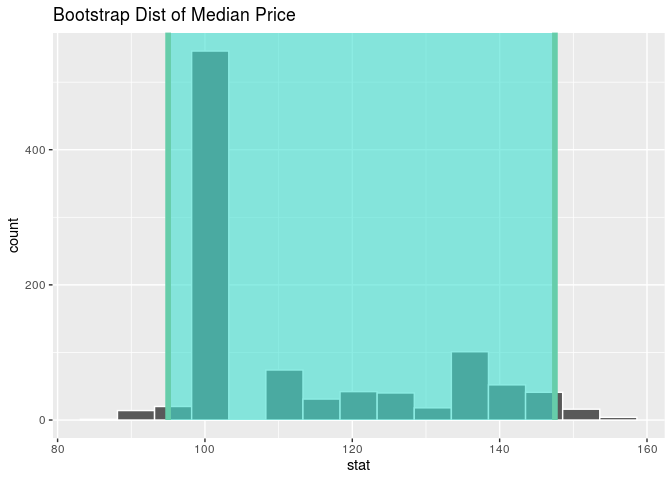
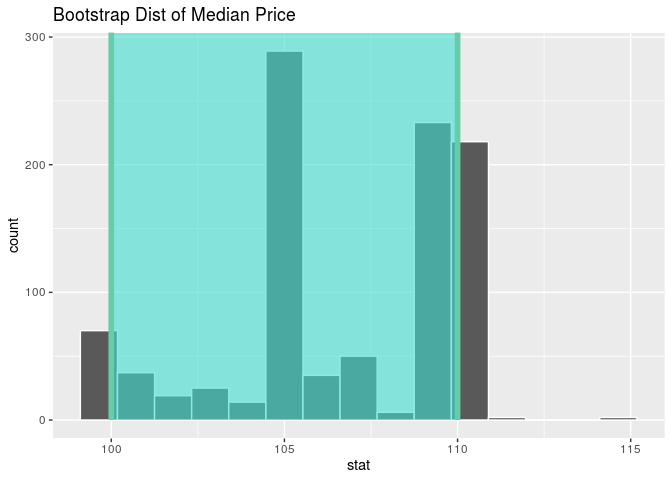
edits

diff --git a/data-analysis/data-analysis.md b/data-analysis/data-analysis.md
@@ -39,7 +39,7 @@ Creating the sample that we will perform the following analysis on:
 
 ``` r
 set.seed(111519)
-abnb_sample <- sample_n(abnb, 50)
+abnb_sample <- sample_n(abnb, 4000)
 ```
 
 Constructing a bootstrap distribution for the median price of Airbnbs in
@@ -63,10 +63,10 @@ Airbnbs in NYC:
     ## # A tibble: 1 x 2
     ##   `2.5%` `97.5%`
     ##    <dbl>   <dbl>
-    ## 1     95    148.
+    ## 1    100     110
 
 We are 95% confident that the population median price per night of
-Airbnbs in NYC is between $97.50 and $147.51.
+Airbnbs in NYC is between $100.00 and $110.00.
 
 Creating a visualizaing of the bootstrap distribution for median price:
 
@@ -106,38 +106,38 @@ lm_price_borough %>%
 
 | term                              |  estimate |
 | :-------------------------------- | --------: |
-| (Intercept)                       |   180.333 |
-| neighbourhood\_groupBrooklyn      |  \-63.000 |
-| neighbourhood\_groupStaten Island |  \-80.333 |
-| neighbourhood\_groupQueens        |  \-71.667 |
-| neighbourhood\_groupBronx         | \-125.333 |
+| (Intercept)                       |   206.848 |
+| neighbourhood\_groupBrooklyn      |  \-85.106 |
+| neighbourhood\_groupStaten Island | \-117.674 |
+| neighbourhood\_groupQueens        | \-110.432 |
+| neighbourhood\_groupBronx         | \-126.213 |
 
 The linear model is:
 
-`price-hat = 180.333 -63.000*(neighbourhood_groupBrooklyn)
--80.333*(neighbourhood_groupStaten Island)
--71.667*(neighbourhood_groupQueens) -125.333(neighbourhood_groupBronx)`
+`price-hat = 206.848 -85.106*(neighbourhood_groupBrooklyn)
+-117.674*(neighbourhood_groupStaten Island)
+-110.432*(neighbourhood_groupQueens) -126.213(neighbourhood_groupBronx)`
 
 Intepreting the intercept:
 
 Given that the Airbnb is in Manhattan the expected price, on average, is
-$180.33. In this case, the intercept does have a meaningful
-interpretation because an Airbnb could be $180.33 per night.
+$206.85. In this case, the intercept does have a meaningful
+interpretation because an Airbnb could be $206.85 per night.
 
 Interpreting the slopes using lm\_price\_borough linear model:
 
 For an Airbnb in Brooklyn, the average price is expected, on average, to
-be $63.00 less than an Airbnb in Manhattan, holding all else constant.
+be $85.11 less than an Airbnb in Manhattan, holding all else constant.
 
 For an Airbnb in Staten Island, the average price is expected, on
-average, to be $80.33 less than an Airbnb in Manhattan, holding all else
-constant.
+average, to be $117.67 less than an Airbnb in Manhattan, holding all
+else constant.
 
 For an Airbnb in Queens, the average price is expected, on average, to
-be $71.66 less than an Airbnb in Manhattan, holding all else constant.
+be $110.43 less than an Airbnb in Manhattan, holding all else constant.
 
 For an Airbnb in Bronx, the average price is expected, on average, to be
-$125.33 less than an Airbnb in Manhattan, holding all else constant.
+$126.21 less than an Airbnb in Manhattan, holding all else constant.
 
 ### Part C
 
@@ -161,12 +161,12 @@ abnb_sample_filtered %>%
     ## # A tibble: 2 x 2
     ##   neighbourhood_group med_price
     ##   <fct>                   <dbl>
-    ## 1 Manhattan               148  
-    ## 2 Brooklyn                 92.5
+    ## 1 Manhattan                 150
+    ## 2 Brooklyn                   90
 
-The observed median prices for Manhattan and Brooklyn are $148.00 and
-$92.50, respectively. Therefore, the observed difference in median
-prices is $55.50.
+The observed median prices for Manhattan and Brooklyn are $150.00 and
+$90.00, respectively. Therefore, the observed difference in median
+prices is $60.
 
 Null Hypothesis: There is no difference in median price between
 Manhattan and Brooklyn Airbnb per night.
@@ -188,39 +188,34 @@ Visualizing the null distribution.
 ``` r
 visualize(null_dist_man_brook_med_price) + 
   labs(title = "Null Dist of Difference in Median Price between Manhattan and Brooklyn") +
-  shade_p_value(obs_stat = 55.5, direction = "two_sided")
+  shade_p_value(obs_stat = 60, direction = "two_sided")
 ```
 
     ## Warning: F usually corresponds to right-tailed tests. Proceed with caution.
 
 ![](data-analysis_files/figure-gfm/null_dist_diff_median_vis-1.png)<!-- -->
 
-Findng the
-p-value.
+Findng the p-value.
 
 ``` r
-get_p_value(null_dist_man_brook_med_price, 55.5, direction = "two_sided")
+get_p_value(null_dist_man_brook_med_price, 60, direction = "two_sided")
 ```
 
     ## # A tibble: 1 x 1
     ##   p_value
     ##     <dbl>
-    ## 1   0.116
+    ## 1       0
 
-The p-value is 0.116 which is greater than the significance value of
-0.05. Therefore, we fail to reject the null hypothesis in favor of the
-alternative hypothesis. The data does not provide convincing evidence of
-a difference in median price of Airbnbs for listings in Manhattan and
-Brooklyn.
+The p-value is 0 which is less than the significance value of 0.05.
+Therefore, we reject the null hypothesis that there is no difference in
+median price between Manhattan and Brooklyn Airbnb per night. We can
+conclude that the data does provide convincing evidence of a difference
+in median price of Airbnbs for listings in Manhattan and Brooklyn.
 
 ### Part D
 
 ``` r
-abnb_sample_plot <- sample_n(abnb, 5000)
-```
-
-``` r
-abnb_sample_plot <- abnb_sample_plot %>%
+abnb_sample <- abnb_sample %>%
    mutate(price_median = median(price), 
           price_case = case_when(
       price >= price_median ~ "Median or Above",
@@ -229,7 +224,7 @@ abnb_sample_plot <- abnb_sample_plot %>%
 ```
 
 ``` r
-abnb_sample_plot %>%
+abnb_sample %>%
   ggplot(mapping = aes (x = longitude, y = latitude, color = price_case)) +
   geom_jitter(alpha = 0.5) +
   labs(title = "Prices at Latitude and Longitude Coordinates", x = "Longitude", y = "Latitude", color = "Price Case")
@@ -238,7 +233,7 @@ abnb_sample_plot %>%
 ![](data-analysis_files/figure-gfm/price-at-location-1.png)<!-- -->
 
 ``` r
-abnb_sample_plot %>%
+abnb_sample %>%
   count(neighbourhood_group, price_case) %>%
   group_by(neighbourhood_group) %>%
   mutate(rel_freq = n/sum(n)) %>%
@@ -248,12 +243,12 @@ abnb_sample_plot %>%
     ## # A tibble: 5 x 4
     ## # Groups:   neighbourhood_group [5]
     ##   neighbourhood_group price_case          n rel_freq
-    ##   <chr>               <chr>           <int>    <dbl>
-    ## 1 Bronx               Median or Above    15    0.158
-    ## 2 Brooklyn            Median or Above   825    0.404
-    ## 3 Manhattan           Median or Above  1504    0.671
-    ## 4 Queens              Median or Above   149    0.255
-    ## 5 Staten Island       Median or Above    15    0.395
+    ##   <fct>               <chr>           <int>    <dbl>
+    ## 1 Manhattan           Median or Above  1184    0.688
+    ## 2 Brooklyn            Median or Above   680    0.404
+    ## 3 Staten Island       Median or Above     5    0.217
+    ## 4 Queens              Median or Above   119    0.245
+    ## 5 Bronx               Median or Above    13    0.153
 
 WANT TO SAY WHETHER PRICE IS DEPENDEDNT ON LOCATION OF BOROUGH\!
 
@@ -269,18 +264,18 @@ abnb_sample %>%
 
     ## # A tibble: 10 x 3
     ## # Groups:   neighbourhood [10]
-    ##    neighbourhood    neighbourhood_group med_price
-    ##    <chr>            <fct>                   <dbl>
-    ##  1 Theater District Manhattan                239 
-    ##  2 Hell's Kitchen   Manhattan                225 
-    ##  3 East Harlem      Manhattan                218.
-    ##  4 Jackson Heights  Queens                   200 
-    ##  5 Greenpoint       Brooklyn                 199 
-    ##  6 Williamsburg     Brooklyn                 199 
-    ##  7 Ditmars Steinway Queens                   190 
-    ##  8 Midtown          Manhattan                181 
-    ##  9 Chelsea          Manhattan                180 
-    ## 10 Elmhurst         Queens                   179
+    ##    neighbourhood     neighbourhood_group med_price
+    ##    <chr>             <fct>                   <dbl>
+    ##  1 Eastchester       Bronx                    475 
+    ##  2 Far Rockaway      Queens                   450 
+    ##  3 Tribeca           Manhattan                450 
+    ##  4 Vinegar Hill      Brooklyn                 354.
+    ##  5 NoHo              Manhattan                325 
+    ##  6 Castleton Corners Staten Island            299 
+    ##  7 Rockaway Beach    Queens                   297 
+    ##  8 DUMBO             Brooklyn                 250 
+    ##  9 Highbridge        Bronx                    240 
+    ## 10 Great Kills       Staten Island            235
 
 ### Part II
 
@@ -358,28 +353,28 @@ lm_avail_room_type %>%
 
 | term                   | estimate |
 | :--------------------- | -------: |
-| (Intercept)            |  121.067 |
-| room\_typePrivate room | \-38.678 |
-| room\_typeShared room  |   25.433 |
+| (Intercept)            |  115.774 |
+| room\_typePrivate room |  \-3.443 |
+| room\_typeShared room  |   74.912 |
 
 The linear model is:
 
-`price-hat = 121.067 -38.678*(room_typePrivateroom)
-+25.433*(room_typeShared room)`
+`price-hat = 115.774 -3.443*(room_typePrivateroom)
++74.912*(room_typeShared room)`
 
 Intepreting the intercept:
 
 Given that the Airbnb has the roomtype of entire house/apt the expected
-availability, on average, is 121 days out of the year. In this case, the
-intercept does have a meaningful interpretation because an Airbnb could
-be available for 121 days out of 365 per year.
+availability, on average, is 115.8 days out of the year. In this case,
+the intercept does have a meaningful interpretation because an Airbnb
+could be available for 121 days out of 365 per year.
 
 Interpreting the slopes using lm\_avail\_room\_type linear model:
 
 For an Airbnb with roomtype of private room, the average availability is
-expected, on average, to be 38.68 days less per year than an Airbnb in
-wth room type of entire house/apt, holding all else constant.
+expected, on average, to be 3.4 days less per year than an Airbnb in wth
+room type of entire house/apt, holding all else constant.
 
 For an Airbnb with roomtype of shared room, the average availability is
-expected, on average, to be 25.43 days more per year than an Airbnb in
+expected, on average, to be 74.9 days more per year than an Airbnb in
 wth room type of entire house/apt, holding all else constant.
